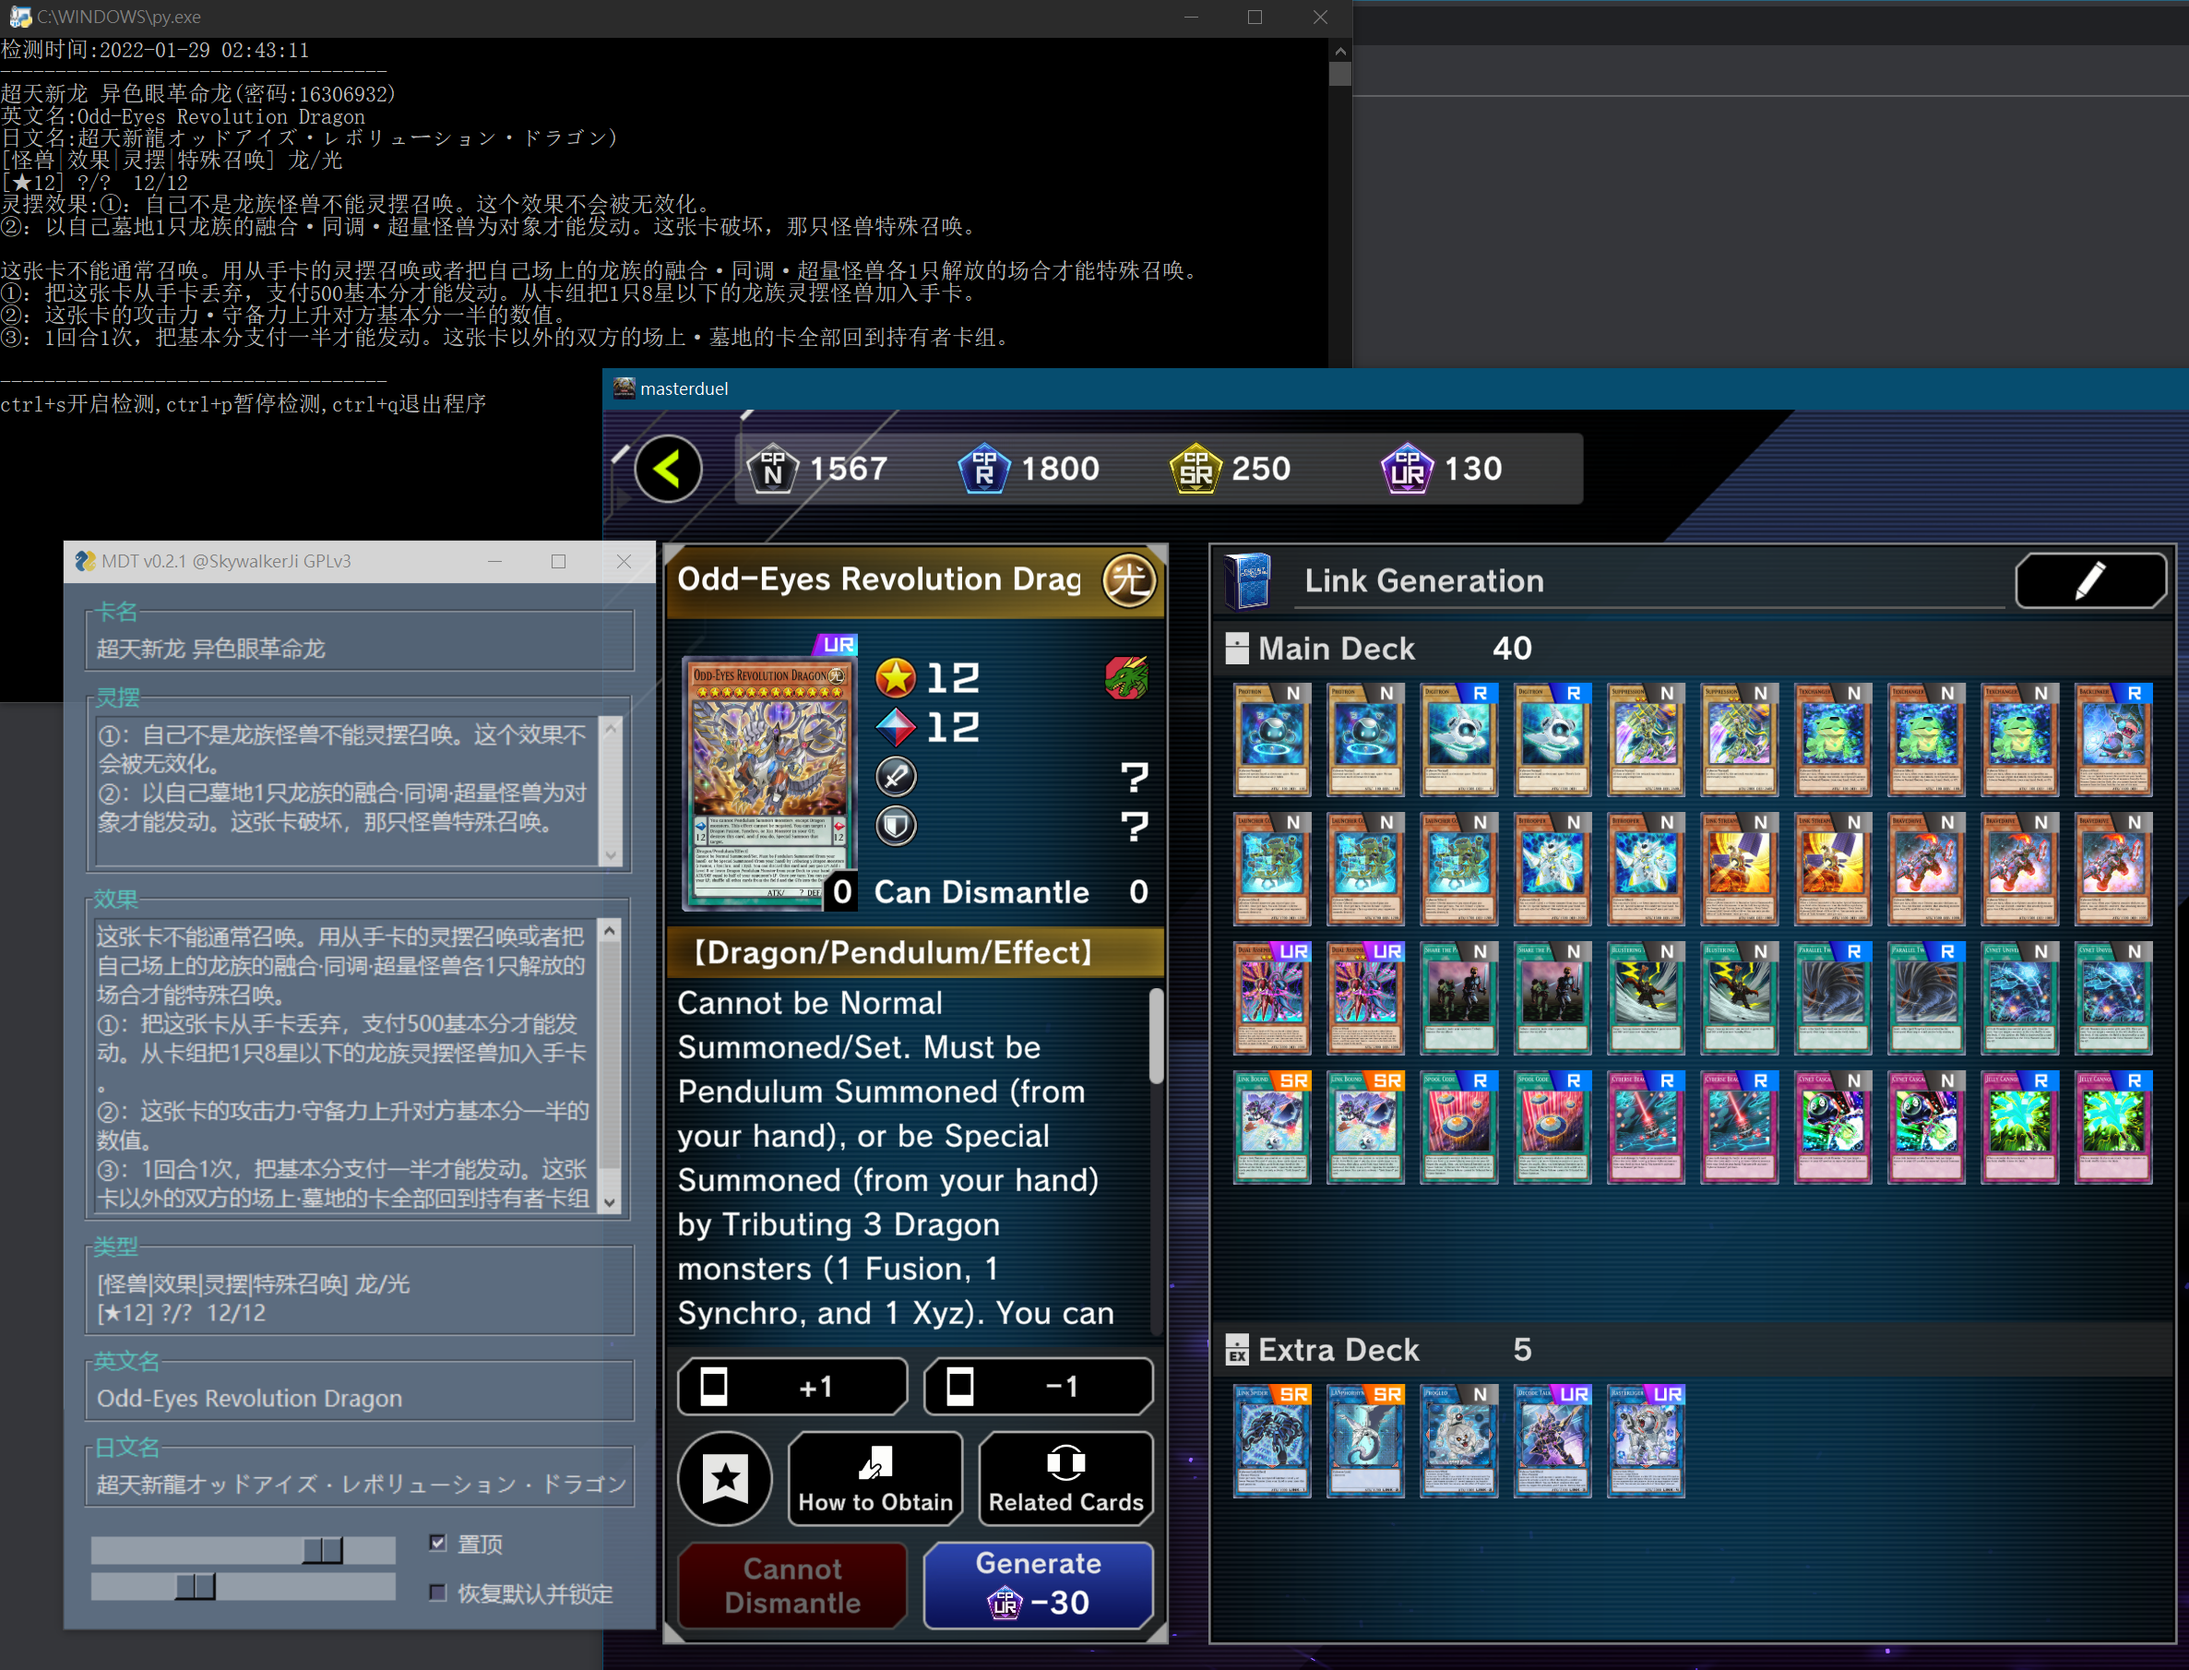
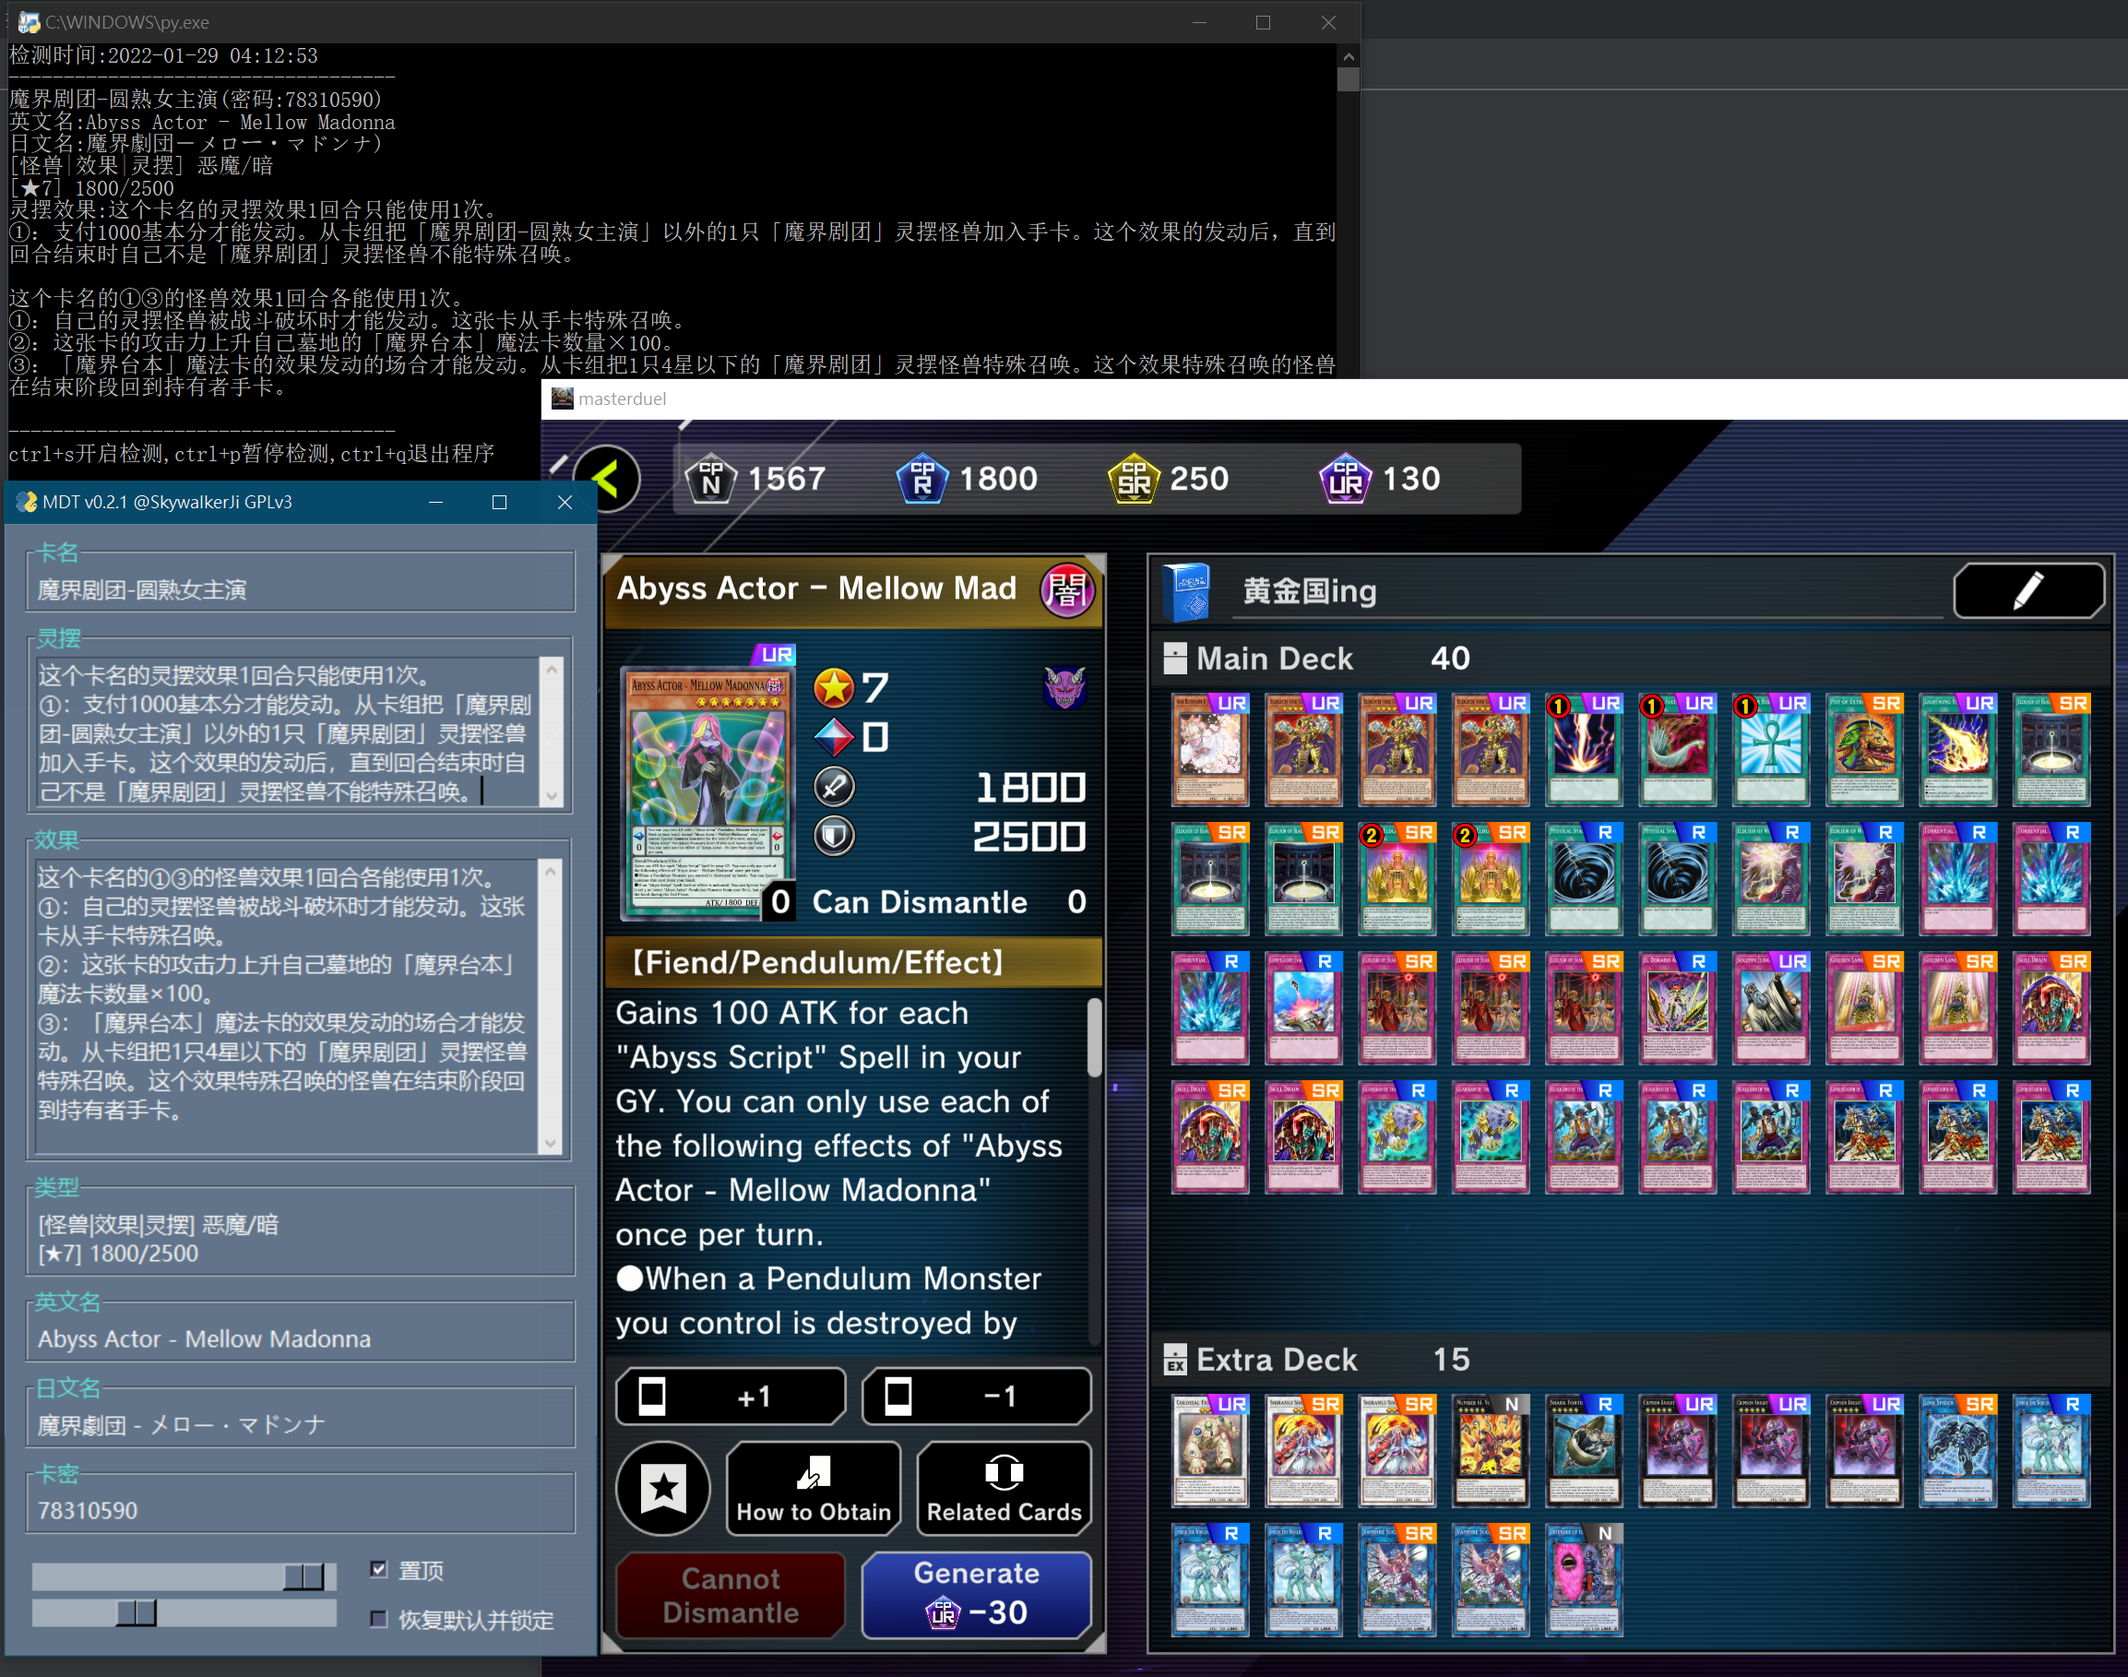
v0.2.1

diff --git a/mdt.py b/mdt.py
@@ -63,8 +63,8 @@ def get_cid(type: int):
             oppo_pointer_value = (
                 read_longlongs(pm, oppo_addr, [0xB8, 0x0, 0xF8, 0x140]) + 0x20
             )
-            oppo_addr = pm.read_int(oppo_pointer_value)
-            return oppo_addr
+            oppo_cid = pm.read_int(oppo_pointer_value)
+            return oppo_cid
         except:
             return 0
 
@@ -89,8 +89,8 @@ def translate():
         except:
             print("地址没找到，不执行检测")
             return
-    cid_duel = get_cid(1)
-    cid_deck = get_cid(2)
+    cid_deck = get_cid(1)
+    cid_duel = get_cid(2)
     cid_oppo = get_cid(3)
     cid_update = False
 
@@ -112,11 +112,16 @@ def translate():
             get_at = time.strftime("%Y-%m-%d %H:%M:%S", time.localtime())
             print(f"检测时间:{get_at}")
             print("-----------------------------------")
-        print_card(cid_duel)
-        print_card(cid_deck)
-        if not valid_cid(cid_duel) and (not valid_cid(cid_deck)):
-            print_card(cid_oppo)
-        print(f"{switch_hotkey}开启检测,{pause_hotkey}暂停检测,{exit_hotkey}退出程序\n")
+        print_card(cid_show_gui)
+        # print("----------↓回放模式↓----------------")
+        # print_card(cid_oppo)
+        # print("----------↓决斗模式↓----------------")
+        # print_card(cid_duel)
+        # print("----------↓卡组模式↓-----------------")
+        # print_card(cid_deck)
+        if show_all_info == 1:
+            print("-----------------------------------")
+            print(f"{switch_hotkey}开启检测,{pause_hotkey}暂停检测,{exit_hotkey}退出程序\n")
 
 
 def print_card(cid: int):
@@ -137,7 +142,6 @@ def print_card(cid: int):
             print(f"{card_t['text']['desc']}\n")
         except:
             print(f"数据库中未查到该卡,cid:{cid}，如果是新卡请提交issue。如果是token衍生物请忽略。")
-        print("-----------------------------------")
     else:
         return 0
 

diff --git a/mdt_gui.py b/mdt_gui.py
@@ -55,7 +55,15 @@ def main():
     config_load()
     cards_db = None
     cid_temp = 0
-    text_keys = ["-cn_name-", "-pdesc-", "-desc-", "-types-", "-en_name-", "-jp_name-"]
+    text_keys = (
+        "-cn_name-",
+        "-pdesc-",
+        "-desc-",
+        "-types-",
+        "-en_name-",
+        "-jp_name-",
+        "-id-",
+    )
     option_slider = [
         [
             sg.Slider(
@@ -175,6 +183,15 @@ def main():
                 title_color="#61E7DC",
             )
         ],
+        [
+            sg.Frame(
+                "卡密",
+                [
+                    [sg.T(key="-id-", s=(38, None), enable_events=True)],
+                ],
+                title_color="#61E7DC",
+            )
+        ],
     ]
 
     layout = [[card_frame], [sg.Column(option_slider), sg.Column(option_checkbox)]]
@@ -208,6 +225,7 @@ def main():
                 window["-cn_name-"].update(card_t["cn_name"])
                 window["-en_name-"].update(card_t["en_name"])
                 window["-jp_name-"].update(card_t["jp_name"])
+                window["-id-"].update(card_t["id"])
                 window["-types-"].update(card_t["text"]["types"])
                 if card_t["text"]["pdesc"]:
                     window["-pdesc_frame-"].update(visible=True)
@@ -219,7 +237,7 @@ def main():
                 print("数据库中未查到该卡")
         if event in (sg.WIN_CLOSED, "Exit"):
             break
-        elif event in ("-en_name-", "-cn_name-", "-jp_name-", "-types-"):
+        elif event in text_keys:
             pyperclip.copy(window[event].get())
         # 透明度滑块
         elif event == "-window_alpha-":

diff --git a/README.md b/README.md
@@ -4,10 +4,10 @@ Yu-Gi-Oh! Master Duel translation script
 
 * 自动切换，自动查卡。
 * 高正确性，除非卡图数据本身有错。
-* 超快识别率，低于0.000001s。
+* 超快识别速度，低于0.000001s。
 * 极低占用，CPU占用忽略不计。
 * 直接调用win32api，不使用第三方dll。
-* 开源，你可以直接执行源代码。
+* 开源，你可以直接执行源代码并定制你自己的版本。
 * 高兼容性，点开即用。
 
 ![MDT](https://github.com/SkywalkerJi/mdt/raw/master/IMG/v0.2.1.png "MDT v0.2.1")
@@ -36,7 +36,7 @@ Yu-Gi-Oh! Master Duel translation script
 <details>
    <summary>点击CLI使用说明</summary>
 
-1. MDT同时自带一个命令行界面。这是MDT v0.1.X版本的默认UI。
+1. MDT同时自带一个命令行界面。这是MDT v0.1.x版本的默认UI。
 2. 打开游戏。使用管理员权限运行`mdt.exe`。
 3. 根据提示使用快捷键。
 
@@ -121,18 +121,22 @@ python mdt_gui.py
 
 你也可以通过[Twitter](https://twitter.com/Skywalker_Ji)或[NGA](https://bbs.nga.cn/read.php?tid=30415633)进行反馈
 
-或者你可以加入Q群：710144213
+或者你可以加入QQ二群：710144213
 
 ## Changelog
 
 *v0.2.1*
 
-* 增加了日文和英文的显示。
-* 优化了UI,比如效果文本可以随着窗口生成滚动条。
+* 增加了日文卡名、英文卡名、卡片密码的显示。
+* 优化了UI，比如效果文本可以随着窗口生成滚动条。
 * 增加了透明度效果。
-* 点击中·日·英文卡名可以直接复制到系统剪贴板。
+* 增加了字体大小设置。
+* 点击中·日·英文卡名、卡密可以直接复制到系统剪贴板。
 * 提高了默认轮询速度。
 * 设置自动保存在配置文件中。
+* 支持在solo模式入口查看租用卡组和AI对手卡组内容。
+* 支持回放模式查看对手卡组。
+* 修复一个崩溃问题。
 
 <details>
    <summary>展开过往版本</summary>
